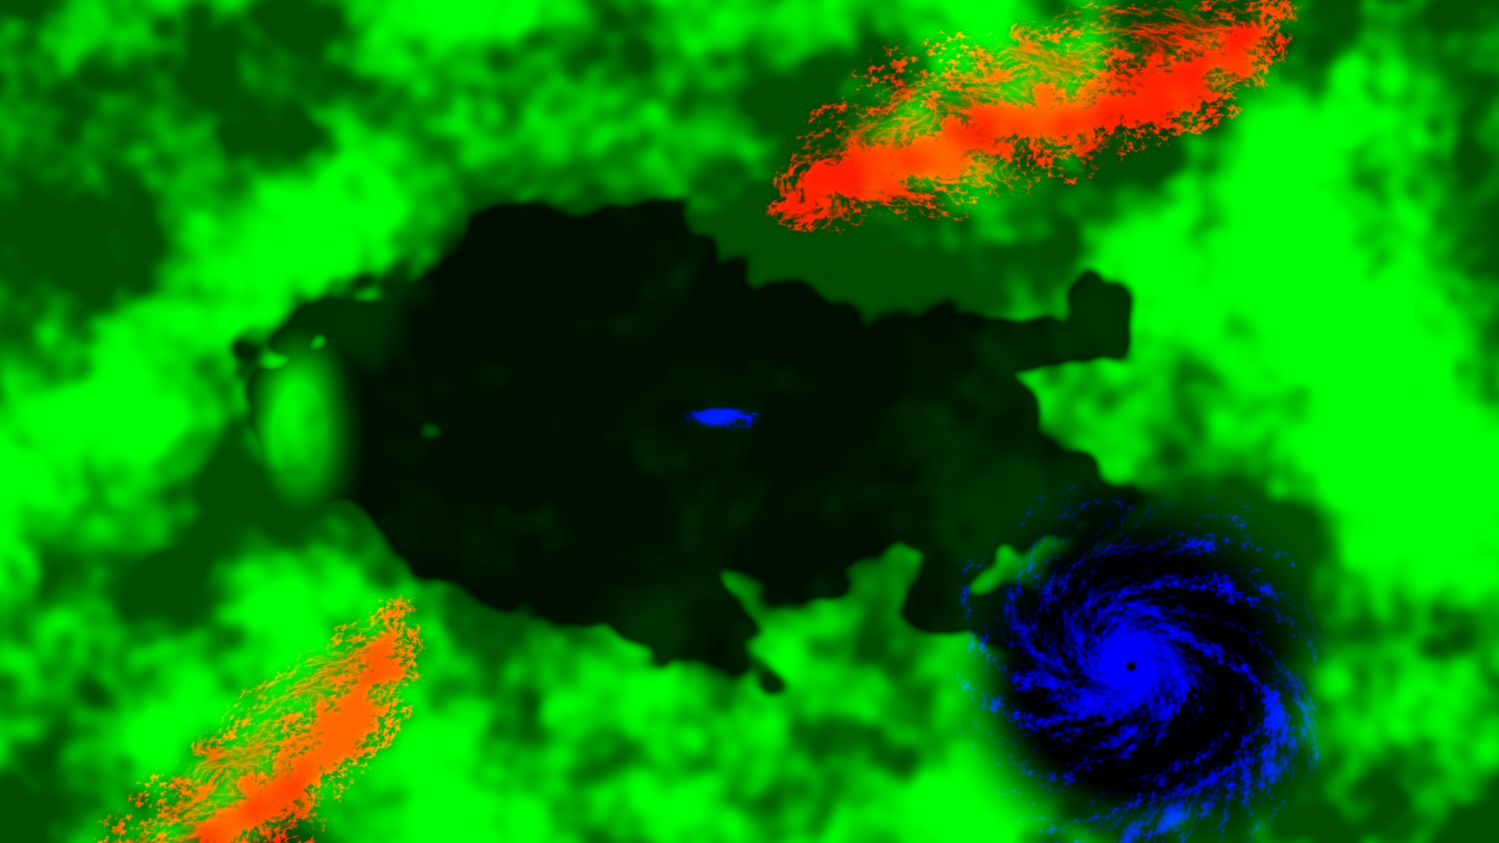
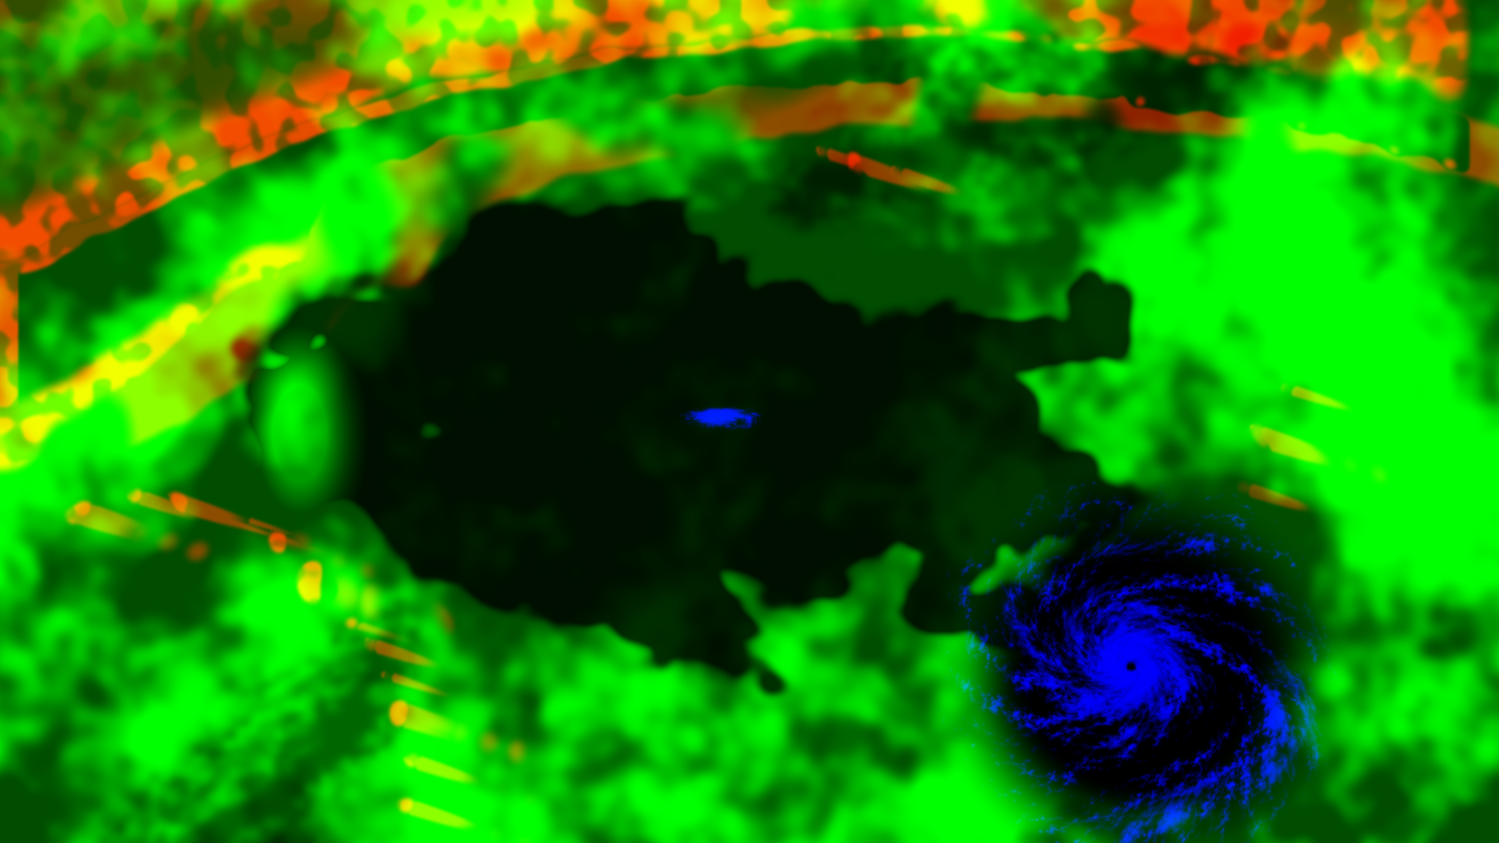
Weather systems map and cloud held by other land and ice (work in progress)

diff --git a/src/places/reveal/shared/weather.ts b/src/places/reveal/shared/weather.ts
@@ -16,7 +16,9 @@ export const FOG_KM = 0.7;
 /** Km a second: staged far faster than weather, so the held frame is seen to live. */
 export const LOW_DRIFT: [number, number] = [5.4, 1.5];
 /** The small low far off toward the planet's edge, px of the master: the wind winds round it as round the cyclone, a quarter as wide. */
-export const LOW2 = { x: 520, y: 800 };
+export const LOW2 = { x: 300, y: 900 };
+/** The rectangle the map of the weather systems lies on (sky/weather.png, assets-src/reveal/sky/make_weather.py), as COVER_RECT is given. */
+export const WEATHER_RECT: [number, number, number, number] = [X(-2600), Z(-1400), 1 / (10800 * KM), 1 / (6075 * KM)];
 const LOW_MUCH = 1.0;
 
 const f = (n: number): string => n.toFixed(4);
@@ -24,6 +26,7 @@ const f = (n: number): string => n.toFixed(4);
 export const WEATHER_GLSL = /* glsl */ `
 uniform sampler2D uCloudTile;
 uniform sampler2D uCover;
+uniform sampler2D uWeather;
 uniform sampler2D uMatPopcorn;
 uniform sampler2D uMatStreaks;
 uniform sampler2D uMatSpecks;
@@ -151,9 +154,14 @@ vec2 windRound(vec2 d, vec2 c) {
   return cmul(c, vec2(0.5 * log(r2), atan(d.y, d.x)));
 }
 const vec2 WIND_FAR = vec2(0.9511, -0.3090);
+// How far the weather systems have travelled down the wind since the titan frame, km: the far low and the map of the systems
+// (sky/weather.png) go together, far slower than the cloud that streams through them. Nothing before the frame is held.
+vec2 systemsRun() {
+  return uLive > 0.0 ? 2.5 * uWx * vec2(0.9511, 0.3090) : vec2(0.0);
+}
 vec2 windLay(vec2 at) {
   windFp = WIND_FAR;
-  return cmul(WIND_FAR, at) + windRound(at - vec2(${f(X(AT.cyclone.x))}, ${f(Z(AT.cyclone.y))}), vec2(190.99, 381.97)) + windRound(at - vec2(${f(X(LOW2.x))}, ${f(Z(LOW2.y))}), vec2(95.49, 190.99));
+  return cmul(WIND_FAR, at) + windRound(at - vec2(${f(X(AT.cyclone.x))}, ${f(Z(AT.cyclone.y))}), vec2(190.99, 381.97)) + windRound(at - systemsRun() - vec2(${f(X(LOW2.x))}, ${f(Z(LOW2.y))}), vec2(95.49, 190.99));
 }
 // The change of a lay across the pixel, from the change of the ground across it (the map is smooth; its jump is not in it).
 vec4 windG(vec4 gAt, mat2 m) {
@@ -171,22 +179,23 @@ const mat2 LOW_E = mat2(25.0, 10.0, -10.0, 25.0);
 
 // How much of the low field stands at a point, 0 to 1, before any of its cloud is read: the painted cover, the clear sky over
 // the lake of the Eye and over the sun's image, and in the hold the systems that travel.
+// What other land and the ice hold at the point last asked of lowAmount (sky/cover.png, red): 0 none, about 0.5 a street in
+// the lee of an island or a coast, 1 a bank or a deck.
+float lowHeld = 0.0;
 float lowAmount(vec2 at, vec2 w) {
+  vec3 stands = coverAt(at);
+  float lake = smoothstep(100.0, 230.0, length(at - vec2(${f(X(AT.lake.x))}, ${f(Z(AT.lake.y))})));
   // The sky stands clear over the lake of the Eye, where the rise begins.
-  float amount = max(coverAt(at).g, 0.6 * westSea(at)) * smoothstep(100.0, 230.0, length(at - vec2(${f(X(AT.lake.x))}, ${f(Z(AT.lake.y))})));
-  // (Held, the weather is seen to pass: where cloud stands at all is carried by the wind too. The painted cover, which stands on
-  // the ground, gives way through the hold to systems that travel, and only its wide clearing over the land and round the
-  // cyclone stays where it is.)
+  float amount = max(stands.g, 0.6 * westSea(at)) * lake;
+  // (Held, the weather is seen to pass: the painted clumps of the cover, which stand on the ground, give way through the hold
+  // to the systems that travel, and only its wide clearing over the land and round the cyclone stays where it is.)
   if (uLive > 0.0) {
-    float open = smoothstep(0.12, 0.4, texture2D(uCover, clamp((at - uCoverRect.xy) * uCoverRect.zw, 0.0, 1.0), 5.0).g);
-    float travels = texture2D(uCloudTile, mat2(0.88, 0.47, -0.47, 0.88) * (w + uWx * vec2(6.0, -9.0)) / 3300.0 + vec2(0.37, 0.81), 3.0).b;
-    amount = mix(amount, open * (0.2 + 0.8 * smoothstep(0.36, 0.62, travels)) * smoothstep(100.0, 230.0, length(at - vec2(${f(X(AT.lake.x))}, ${f(Z(AT.lake.y))}))), smoothstep(0.0, 22.0, uWx));
+    float open = smoothstep(0.12, 0.4, textureLod(uCover, clamp((at - uCoverRect.xy) * uCoverRect.zw, 0.0, 1.0), 5.0).g);
+    amount = mix(amount, open * lake, smoothstep(0.0, 22.0, uWx));
   }
-  // (The field runs in under the outer arms of the cyclone: the painted cover leaves a round hole there, wider than the storm.)
-  float nearStorm = length(at - vec2(${f(X(AT.cyclone.x))}, ${f(Z(AT.cyclone.y))})) / ${f(1250 * KM)};
-  amount = max(amount, 0.75 * smoothstep(0.3, 0.55, nearStorm) * (1.0 - smoothstep(0.7, 1.1, nearStorm)));
-  amount *= 1.0 - 0.94 * smoothstep(0.03, 0.3, sunImage(at));
-  return amount;
+  float glare = 1.0 - 0.94 * smoothstep(0.03, 0.3, sunImage(at));
+  lowHeld = stands.r * glare;
+  return amount * glare;
 }
 
 // The low cloud as the light meets it: how much water stands in the way (0 where the sea is clear, about 1 in the thin body of a
@@ -216,10 +225,9 @@ float lowDepth(vec2 at) {
     qCell -= uWx * vec2(23.0, -1.0) / 600.0;
     qPuff -= uWx * vec2(20.0, 2.0) / 600.0;
   }
-  // (Where the clusters stand is read on the ground itself, carried the same way: it is soft and wide, and needs no turn.)
-  float patchRun = 5.6 * uTime + 25.0 * held + (uLive > 0.0 ? 17.0 * uWx : 0.0);
-  vec2 lowPatch = mat2(0.8, 0.6, -0.6, 0.8) * (at - vec2(0.9511, 0.3090) * patchRun) / 1500.0 + vec2(0.21, 0.47);
-  vec4 lowGPatch = vec4(mat2(0.8, 0.6, -0.6, 0.8) * gAt.xy, mat2(0.8, 0.6, -0.6, 0.8) * gAt.zw) / 1500.0;
+  // (Where the systems stand is read on the ground itself, where they have travelled to: it is soft and wide.)
+  vec2 lowPatch = (at - systemsRun() - vec2(${f(WEATHER_RECT[0])}, ${f(WEATHER_RECT[1])})) * vec2(${WEATHER_RECT[2].toFixed(9)}, ${WEATHER_RECT[3].toFixed(9)});
+  vec4 lowGPatch = gAt * vec4(${WEATHER_RECT[2].toFixed(9)}, ${WEATHER_RECT[3].toFixed(9)}, ${WEATHER_RECT[2].toFixed(9)}, ${WEATHER_RECT[3].toFixed(9)});
   lowUvA = LOW_A * qChain + vec2(0.3, 0.7);
   lowUvB = LOW_B * qCell + vec2(0.13, 0.4);
   lowUvC = LOW_C * qPuff + vec2(0.61, 0.27);
@@ -238,15 +246,19 @@ float lowDepth(vec2 at) {
   amount *= smoothstep(0.1, 0.4, calm);
   lowWeigh = vec3(0.0);
   lowNear = vec2(0.0);
-  if (amount <= 0.02) return 0.0;
-  // (Where the clusters stand, and where the veil lies: a soft field read first, so most of the open sea, which is clear,
-  // costs one read and no more. The reads are all at places and fineness worked out above: see GRADS.)
-  vec3 stands = pic(uCloudTile, lowPatch, max(abs(lowGPatch), vec4(1.0 / 16384.0)), 2.0).rgb;
-  float cluster = amount * smoothstep(0.52 - 0.14 * LOW_MUCH, 0.76 - 0.14 * LOW_MUCH, stands.r);
-  float veiled = amount * smoothstep(0.4, 0.7, stands.g);
-  if (cluster <= 0.0 && veiled <= 0.0) return 0.0;
+  if (amount <= 0.02 && lowHeld <= 0.0) return 0.0;
+  // (The systems, read first, so most of the open sea, which is clear, costs one read and no more: red how much cloud a
+  // system holds, green the veil, blue its kind (0 open cells, 0.5 cumulus in chains, 1 closed cells). The reads are all at
+  // places and fineness worked out above: see GRADS.)
+  vec3 systems = pic(uWeather, clamp(lowPatch, 0.0, 1.0), lowGPatch).rgb;
+  float cluster = max(amount * min(systems.r * LOW_MUCH, 1.0), lowHeld);
+  float veiled = amount * systems.g;
+  if (cluster <= 0.004 && veiled <= 0.004) return 0.0;
+  float closed = max(clamp(2.0 * systems.b - 1.0, 0.0, 1.0) * (amount * systems.r >= lowHeld ? 1.0 : 0.0), smoothstep(0.62, 0.85, lowHeld));
+  float opened = clamp(1.0 - 2.0 * systems.b, 0.0, 1.0) * (1.0 - closed);
   float chain = dot(pic(uMatStreaks, lowUvA, lowGA, 1.0).rgb, vec3(0.3, 0.55, 0.15)) / 0.31;
-  float density = cluster * smoothstep(0.82 - 0.12 * LOW_MUCH, 1.92 - 0.12 * LOW_MUCH, chain);
+  // (Cumulus stands in chains down the wind; a front or a deck is cloud from side to side; open cells stand free of the chains.)
+  float density = cluster * mix(smoothstep(0.7, 1.8, chain), 1.0, max(closed, 0.7 * opened));
   float drawn = 0.45 * veiled * pow(max(chain - 0.9, 0.0), 1.3);
   if (density <= 0.0) return drawn;
   float cell = cloudAt(uMatPopcorn, lowUvB, lowGB, 0.34);
@@ -258,9 +270,11 @@ float lowDepth(vec2 at) {
   lowNear = vec2(1.0 - smoothstep(240.0, 360.0, uViewKm), 1.0 - smoothstep(85.0, 130.0, uViewKm));
   if (lowNear.x > 0.0) lump = mix(1.0, cloudAt(uMatPopcorn, lowUvD, lowGD, 0.34), lowNear.x);
   if (lowNear.y > 0.0) grain = mix(1.0, cloudAt(uMatSpecks, lowUvE, lowGE, 0.2), lowNear.y);
-  float knots = cell * (0.45 + 0.55 * puff) * mix(1.0, lump, 0.55) * mix(1.0, grain, 0.4);
+  // (Open cells are the photograph turned inside out: cloud in the walls between its cumulus, clear air where they stood.)
+  float knots = mix(cell, max(2.0 - 1.3 * cell, 0.0), opened) * (0.45 + 0.55 * puff) * mix(1.0, lump, 0.55) * mix(1.0, grain, 0.4);
   lowWeigh = vec3(1.0, 0.55, density);
-  float dense = max(knots * (0.25 + 1.5 * density) - 1.0, 0.0);
+  // (A deck has a floor of cloud under its cells, cracked where the cells part.)
+  float dense = max(knots * (0.25 + 1.5 * density) - 1.0, 0.0) + 0.7 * closed * cluster * smoothstep(0.35, 0.9, knots);
   return 1.5 * dense + drawn;
 }
 

diff --git a/src/places/reveal/sky/index.ts b/src/places/reveal/sky/index.ts
@@ -467,7 +467,7 @@ export function create(ctx: Context): Piece {
   const data = (file: string, repeat: boolean): THREE.Texture => ctx.assets.texture(file, { kind: 'data', repeat });
   const tile = data('sky/cloud-tile.jpg', true);
   // Where the weather stands (assets-src/reveal/sky/make_cover.py), and the Builder's photographs of cloud from orbit (assets-src/reveal/mat/RECIPE.md).
-  const shared: [string, string, boolean][] = [['uCover', 'sky/cover.png', false], ['uMatPopcorn', 'mat/popcorn.jpg', true], ['uMatStreaks', 'mat/streaks.jpg', true], ['uMatSpecks', 'mat/specks.jpg', true], ['uMatCellsNh', 'mat/cells-nh.png', true], ['uMatPopcornNh', 'mat/popcorn-nh.png', true], ['uMatSpecksNh', 'mat/specks-nh.png', true], ['uMatStreaksNh', 'mat/streaks-nh.png', true], ['uMatVeilNh', 'mat/veil-nh.png', true], ['uMatVeil', 'mat/veil.jpg', true], ['uBanks', 'sky/banks.png', false]];
+  const shared: [string, string, boolean][] = [['uCover', 'sky/cover.png', false], ['uWeather', 'sky/weather.png', false], ['uMatPopcorn', 'mat/popcorn.jpg', true], ['uMatStreaks', 'mat/streaks.jpg', true], ['uMatSpecks', 'mat/specks.jpg', true], ['uMatCellsNh', 'mat/cells-nh.png', true], ['uMatPopcornNh', 'mat/popcorn-nh.png', true], ['uMatSpecksNh', 'mat/specks-nh.png', true], ['uMatStreaksNh', 'mat/streaks-nh.png', true], ['uMatVeilNh', 'mat/veil-nh.png', true], ['uMatVeil', 'mat/veil.jpg', true], ['uBanks', 'sky/banks.png', false]];
   (ctx.rig.uniforms.uCloudTile as THREE.IUniform).value = tile;
   for (const [uniform, file, repeat] of shared) (ctx.rig.uniforms[uniform] as THREE.IUniform).value = data(file, repeat);
 

diff --git a/src/places/reveal/shared/rig.ts b/src/places/reveal/shared/rig.ts
@@ -131,6 +131,7 @@ export function createRig(): Rig {
     // The cloud of the world (shared/weather.ts): the sky folder gives the pictures.
     uCloudTile: { value: null },
     uCover: { value: null },
+    uWeather: { value: null },
     uMatPopcorn: { value: null },
     uMatStreaks: { value: null },
     uMatSpecks: { value: null },

diff --git a/assets-src/reveal/sky/make_weather.py b/assets-src/reveal/sky/make_weather.py
@@ -1,0 +1,176 @@
+#!/usr/bin/env python3
+"""The weather systems of the reveal, as a forecaster would name them.
+
+Writes public/assets/reveal/sky/weather.png, 1024 x 576, on the rectangle WEATHER_RECT of src/places/reveal/shared/weather.ts
+(px of the master: x -2600 to 8200, y -1400 to 4675), as the systems stand at the titan frame (10027). They travel slowly with
+the far low; the cloud itself is the photographs, which stream through them faster (see lowDepth in weather.ts).
+
+  red    how much low cloud a system holds: 0 clear sea, about 0.5 broken clusters of cumulus, 1 a front or a deck
+  green  how much thin veil the wind draws out there
+  blue   the kind: 0 open cells (rings of cloud round clear air, behind the front), 0.5 cumulus in chains, 1 closed cells
+
+and then sets the red of public/assets/reveal/sky/cover.png (made by make_cover.py, which stands on the ground) to the cloud that
+other land and the ice hold: a deck over the ice edge, banks on the coast that faces the wind, cumulus banked against each island on the side the wind comes from and a street
+in its lee. Green and blue of cover.png are not touched. The mask of other land and ice is the ocean builder's
+(assets-src/reveal/land/ocean/ocean-mask.png: px of the master x -1800 to 7416, y -800 to 4834; red other land, green ice); it is
+read and never copied. Without the mask the red of cover.png is left as it is.
+
+Seeded: the same pictures every run.
+Run: python3 assets-src/reveal/sky/make_weather.py [path of the mask]   (Python 3 with numpy, scipy and Pillow)
+"""
+import os
+import sys
+import numpy as np
+from PIL import Image
+from scipy import ndimage
+
+HERE = os.path.dirname(os.path.abspath(__file__))
+ROOT = os.path.normpath(os.path.join(HERE, '..', '..', '..'))
+PUB = os.path.join(ROOT, 'public', 'assets', 'reveal', 'sky')
+MASK = sys.argv[1] if len(sys.argv) > 1 else os.path.join(ROOT, 'assets-src', 'reveal', 'land', 'ocean', 'ocean-mask.png')
+MASK_RECT = (-1800.0, -800.0, 7416.0, 4834.0)
+
+W, H = 1024, 576
+X0, Y0, WIDE, HIGH = -2600.0, -1400.0, 10800.0, 6075.0
+# The far low (LOW2 of weather.ts), the cyclone, the middle of the body, and the way the low wind blows (px of the master, y down).
+LOW2 = (300.0, 900.0)
+CYCLONE = (5557.0, 3007.0)
+BODY = (3000.0, 1750.0, 2900.0, 1700.0)
+WIND = (0.9511, 0.3090)
+
+
+def smooth(lo, hi, v):
+    t = np.clip((v - lo) / (hi - lo), 0.0, 1.0)
+    return t * t * (3.0 - 2.0 * t)
+
+
+def noise(rng, sx, sy, turn=0.0):
+    """Soft noise, 0 to 1, with features sx by sy texels, turned to lie along the wind."""
+    n = rng.standard_normal((H * 2, W * 2)).astype(np.float32)
+    n = ndimage.gaussian_filter(n, (sy, sx), mode='wrap')
+    if turn:
+        n = ndimage.rotate(n, turn, reshape=False, order=1, mode='wrap')
+    n = n[H // 2:H // 2 + H, W // 2:W // 2 + W]
+    n = (n - n.mean()) / (n.std() + 1e-9)
+    return np.clip(0.5 + 0.25 * n, 0.0, 1.0)
+
+
+def weather():
+    rng = np.random.default_rng(30)
+    ys, xs = np.mgrid[0:H, 0:W].astype(np.float32)
+    mx = X0 + (xs + 0.5) / W * WIDE
+    my = Y0 + (ys + 0.5) / H * HIGH
+    turn = -np.degrees(np.arctan2(WIND[1], WIND[0]))
+
+    # Cumulus of the open sea: clusters 150 to 600 km across, longer down the wind, with lanes of clear sea between.
+    wide = noise(rng, 30.0, 16.0, turn)
+    mid = noise(rng, 11.0, 6.0, turn)
+    small = noise(rng, 4.0, 2.5, turn)
+    field = 0.5 * wide + 0.33 * mid + 0.17 * small
+    red = smooth(0.46, 0.6, field)
+    kind = np.full((H, W), 0.5, np.float32)
+    # A few closed decks where a cluster is at its fullest.
+    # (Few, and none near the body: it is the subject. The body lies about (3000, 1750), 2900 by 1700 px of the master.)
+    clear_of_body = smooth(1.15, 1.6, np.hypot((mx - BODY[0]) / BODY[2], (my - BODY[1]) / BODY[3]))
+    kind = np.maximum(kind, 0.5 + 0.5 * smooth(0.65, 0.72, field) * smooth(0.52, 0.64, wide) * clear_of_body)
+    green = 0.9 * smooth(0.5, 0.66, 0.6 * noise(rng, 22.0, 9.0, turn) + 0.4 * noise(rng, 7.0, 3.0, turn))
+
+    # The far low and its front: a comma. The band winds out of the low as the low wind winds into it (weather.ts: the turn
+    # falls by 2 for each e-fold of the distance), wide at the head and drawn thin down the tail, which ends in clear air.
+    dx, dy = mx - LOW2[0], my - LOW2[1]
+    r = np.maximum(np.hypot(dx, dy), 1.0)
+    th = np.arctan2(dy, dx)
+    # (How far round the arm a point is: the arm is the curve th + 2 ln r = const; s runs 0 at the head to 1 at the tail's end.)
+    phase = th + 2.0 * np.log(r / 95.0) - np.radians(47.0)
+    off = (phase + np.pi) % (2.0 * np.pi) - np.pi
+    along = np.log(r / 95.0) / np.log(1250.0 / 95.0)
+    width = 0.17 + 55.0 / r
+    ragged = 1.2 * width * (noise(rng, 6.0, 6.0) - 0.5)
+    band = np.exp(-((off + ragged) / width) ** 2) * smooth(-0.25, 0.1, along) * (1.0 - smooth(0.8, 1.05, along))
+    head = np.exp(-(r / 210.0) ** 2)
+    front = np.clip(np.maximum(band, 0.9 * head), 0.0, 1.0)
+    # (Ahead of the front, on the inside of the arm, the air is dry: a clear slot. Behind it, outside, cold air and open cells.)
+    ahead = np.exp(-((off + 2.0 * width) / (1.0 * width)) ** 2) * smooth(0.1, 0.4, along) * (1.0 - smooth(0.85, 1.1, along))
+    behind = np.exp(-((off - 3.2 * width) / (2.2 * width)) ** 2) * smooth(0.25, 0.5, along) * (1.0 - smooth(0.9, 1.2, along))
+    red = red * (1.0 - 0.9 * ahead)
+    red = np.maximum(red, 0.6 * behind * (0.6 + 0.4 * mid))
+    kind = kind * (1.0 - behind)
+    red = np.maximum(red, front)
+    kind = np.maximum(kind, front)
+    green = np.maximum(green * (1.0 - 0.8 * ahead), 0.9 * np.exp(-(r / 420.0) ** 2))
+
+    # Nothing of this map stands over the cyclone's disc, nor crowds it: clear water round it.
+    away = np.hypot(mx - CYCLONE[0], my - CYCLONE[1])
+    keep = smooth(850.0, 1450.0, away)
+    red, green = red * keep, green * keep
+    kind = 0.5 + (kind - 0.5) * keep
+
+    out = np.stack([red, green, kind], -1)
+    out = ndimage.gaussian_filter(out, (1.6, 1.6, 0.0))
+    Image.fromarray((np.clip(out, 0.0, 1.0) * 255.0 + 0.5).astype(np.uint8), 'RGB').save(os.path.join(PUB, 'weather.png'), optimize=True)
+    print('weather.png', os.path.getsize(os.path.join(PUB, 'weather.png')))
+
+
+def held():
+    """The red of cover.png: the cloud that other land and the ice hold."""
+    if not os.path.exists(MASK):
+        print('no mask at', MASK, ': the red of cover.png is left as it is')
+        return
+    path = os.path.join(PUB, 'cover.png')
+    cover = np.asarray(Image.open(path).convert('RGB')).copy()
+    CH, CW = cover.shape[:2]
+    CX0, CY0, CWIDE = -900.0, -820.0, 8500.0
+    CHIGH = CWIDE * 9 / 16
+    mask = Image.open(MASK).convert('RGB')
+    # (The mask is laid on the rectangle of the cover; outside the mask there is nothing.)
+    px = CWIDE / CW
+    left = (CX0 - MASK_RECT[0]) / (MASK_RECT[2] - MASK_RECT[0]) * mask.size[0]
+    top = (CY0 - MASK_RECT[1]) / (MASK_RECT[3] - MASK_RECT[1]) * mask.size[1]
+    right = (CX0 + CWIDE - MASK_RECT[0]) / (MASK_RECT[2] - MASK_RECT[0]) * mask.size[0]
+    bottom = (CY0 + CHIGH - MASK_RECT[1]) / (MASK_RECT[3] - MASK_RECT[1]) * mask.size[1]
+    laid = np.asarray(mask.transform((CW, CH), Image.EXTENT, (left, top, right, bottom), Image.BILINEAR)).astype(np.float32) / 255.0
+    land, ice = laid[..., 0], laid[..., 1]
+    rng = np.random.default_rng(31)
+
+    def soft(a, km):
+        return ndimage.gaussian_filter(a, km / 0.8565 / px)
+
+    def shifted(a, km):
+        """a as it lies km down the wind."""
+        d = km / 0.8565 / px
+        return ndimage.shift(a, (WIND[1] * d, WIND[0] * d), order=1, mode='constant')
+
+    n = rng.standard_normal((CH, CW)).astype(np.float32)
+    lumps = ndimage.gaussian_filter(n, 9.0)
+    lumps = np.clip(0.5 + 0.25 * lumps / lumps.std(), 0.0, 1.0)
+    # A deck of low cloud over the ice edge: full on the ice near open water, breaking toward the sea and thinning far in.
+    edge = soft(ice, 60.0)
+    deck = smooth(0.25, 0.7, edge) * (1.0 - 0.8 * smooth(0.8, 0.99, soft(ice, 170.0))) * (0.45 + 0.55 * smooth(0.3, 0.6, lumps))
+    # Banks on the coast that faces the wind: where land lies just down the wind of sea or ice.
+    faces = np.clip(soft(land, 25.0) - shifted(soft(land, 25.0), 90.0), 0.0, 1.0)
+    banks = smooth(0.12, 0.45, faces) * (0.5 + 0.5 * smooth(0.35, 0.6, lumps))
+    # In the lee of the far coast the land is clear, and the sea beyond it grows streets with the fetch.
+    lee = np.zeros_like(land)
+    for km in (150.0, 300.0, 450.0, 600.0):
+        lee = np.maximum(lee, shifted(soft(land, 40.0), km) * (0.35 + 0.65 * km / 600.0))
+    streets = 0.55 * smooth(0.15, 0.6, lee) * (1.0 - smooth(0.05, 0.3, soft(land, 15.0))) * smooth(0.35, 0.6, ndimage.gaussian_filter(n, 40.0) / ndimage.gaussian_filter(n, 40.0).std() * 0.25 + 0.55)
+    # Islands: a small cap on each, and a street of cloud in its lee, thinning down the wind.
+    isles = land * (1.0 - smooth(0.02, 0.1, soft(land, 150.0)))
+    cap = smooth(0.2, 0.6, shifted(soft(isles, 9.0), -16.0)) * (1.0 - smooth(0.2, 0.7, soft(isles, 4.0)))
+    wake = np.zeros_like(land)
+    for km in range(20, 340, 20):
+        wake = np.maximum(wake, shifted(soft(isles, 8.0), float(km) + 25.0) * (1.0 - km / 340.0))
+    wake = 0.55 * smooth(0.05, 0.3, wake)
+    red = np.maximum.reduce([0.95 * deck, 0.9 * banks, streets, 0.6 * cap * (0.4 + 0.6 * smooth(0.4, 0.6, lumps)), wake])
+    # (Clear over the cyclone, as the map of the systems is.)
+    ys, xs = np.mgrid[0:CH, 0:CW].astype(np.float32)
+    away = np.hypot(CX0 + (xs + 0.5) * px - CYCLONE[0], CY0 + (ys + 0.5) * px - CYCLONE[1])
+    red *= smooth(850.0, 1450.0, away)
+    cover[..., 0] = (np.clip(ndimage.gaussian_filter(red, 1.5), 0.0, 1.0) * 255.0 + 0.5).astype(np.uint8)
+    Image.fromarray(cover, 'RGB').save(path, optimize=True)
+    print('cover.png', os.path.getsize(path))
+
+
+if __name__ == '__main__':
+    weather()
+    held()

diff --git a/assets-src/reveal/sky/RECIPE.md b/assets-src/reveal/sky/RECIPE.md
@@ -23,8 +23,10 @@ field of cloud has grown, how the sea is ruffled, how a trail of vapour bends) a
 Made by `make_cover.py`. 2048 x 1152, on the rectangle `COVER_RECT` of `src/places/reveal/shared/weather.ts` (px of the master: x -900 to 7600,
 y -820 to 3961.25). Where the weather stands:
 
-- red: two fronts from the plate `mat/front.jpg`. The place no longer reads this channel (the fronts were taken off the cloud sheet at
-  version 3 of the second owner: they smeared the body); it is kept so the file keeps its form.
+- red: the cloud that other land and the ice hold, set by `make_weather.py` after `make_cover.py` has run (see `weather.png` below):
+  a deck over the ice edge, banks on the coast that faces the wind, streets off the far coast in its lee, cumulus against the
+  islands and a wake behind each. Read by `lowAmount` of `src/places/reveal/shared/weather.ts`. (Before 2026-11-28 it held two
+  fronts from the plate `mat/front.jpg`, which the place had stopped reading.)
 - green: how much of the low field of small cloud has grown at a point: full over the open sea, thin over the land, clumped, cleared round the cyclone.
 - blue: the cyclone and the storm on the spine (`mat/cyclone.jpg`, `mat/storm.jpg` laid on the rectangles where `sky/index.ts` draws their sheets:
   the storm's is 512 x 160 px of the master, 40 px west of its mark), which do not drift. It is the shade they throw, read soft.
@@ -33,6 +35,29 @@ y -820 to 3961.25). Where the weather stands:
 
 - `public/assets/reveal/maps/map-a-h.png`: the height of the land, to thin the low cloud over it.
 - `public/assets/reveal/mat/front.jpg`, `cyclone.jpg`, `storm.jpg`: the plates, for their shade.
+
+## `public/assets/reveal/sky/weather.png`
+
+Made by: `assets-src/reveal/sky/make_weather.py` (Python 3 with numpy, scipy and Pillow), committed here
+From: nothing for `weather.png` (seeded noise and the places of the far low and the cyclone); for the red of `cover.png` the ocean builder's mask of other land and ice, `assets-src/reveal/land/ocean/ocean-mask.png`, read and never copied
+Prompt or command: `python3 assets-src/reveal/sky/make_weather.py [path of the mask]`, from the root of the repo, after `make_cover.py`; no model and no prompt; the only noise is of fixed seeds
+Takes: 4 made (an even field; clusters with lanes; the comma of the far low with its dry slot and open cells; the same with the decks kept away from the body and the islands' cloud set upwind and broken); the fourth is kept
+Why this one: the sea reads as clusters of cumulus with clear lanes between and the body stays clear
+Date: 2026-11-28
+
+1024 x 576, on the rectangle `WEATHER_RECT` of `src/places/reveal/shared/weather.ts` (px of the master: x -2600 to 8200, y -1400 to 4675).
+The weather systems as they stand at the titan frame; they travel slowly with the far low and the cloud streams through them faster.
+Used by: `src/places/reveal/shared/weather.ts` (`lowDepth`), read by the part `reveal/cloud` and by the shade on the land.
+
+- red: how much low cloud a system holds: 0 clear sea, about 0.5 broken clusters of cumulus, 1 a front or a deck.
+- green: how much thin veil the wind draws out there.
+- blue: the kind: 0 open cells behind the front, 0.5 cumulus in chains, 1 closed cells.
+
+The same script sets the red of `cover.png` (above); its green and blue are unchanged to the last bit.
+
+### What is read as data
+
+- `assets-src/reveal/land/ocean/ocean-mask.png` (the ocean builder's, from the branch `agent/p10-reveal-ocean`): red other land, green ice.
 
 ## `public/assets/reveal/sky/banks.png`
 

diff --git a/assets-src/reveal/ROWS-reveal_weather_builder_n30.md b/assets-src/reveal/ROWS-reveal_weather_builder_n30.md
@@ -1,0 +1,6 @@
+# Files of the reveal's sky that are not computed in the build (reveal_weather_builder_n30)
+
+| file | what | tool or model | prompt | take | date |
+| --- | --- | --- | --- | --- | --- |
+| public/assets/reveal/sky/weather.png | The weather systems of the open sea on the rectangle WEATHER_RECT: red how much low cloud, green how much veil, blue the kind (open cells, cumulus in chains, closed cells). 1024 x 576, 0.5 MB. | assets-src/reveal/sky/make_weather.py (Python 3, numpy, scipy, Pillow), seeded noise | none: computed, no model | 4 | 2026-11-28 |
+| public/assets/reveal/sky/cover.png | The red channel made again: the cloud that other land and the ice hold (deck over the ice edge, banks on the windward coast, lee streets, cloud against the islands and their wakes). Green and blue unchanged to the last bit. 2048 x 1152, 0.9 MB. | assets-src/reveal/sky/make_weather.py, from the ocean builder's mask assets-src/reveal/land/ocean/ocean-mask.png (read, not copied) | none: computed, no model | 4 | 2026-11-28 |
